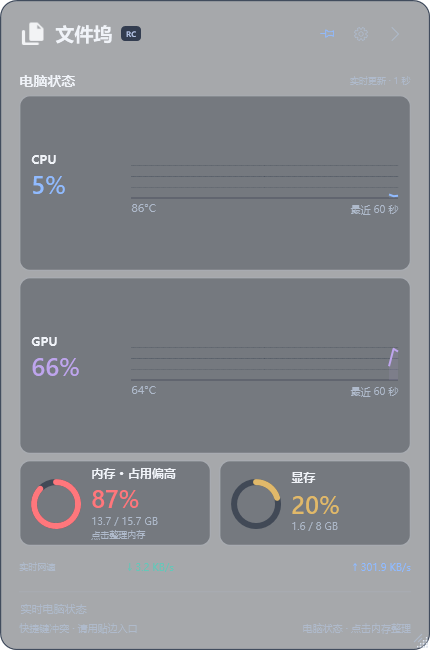
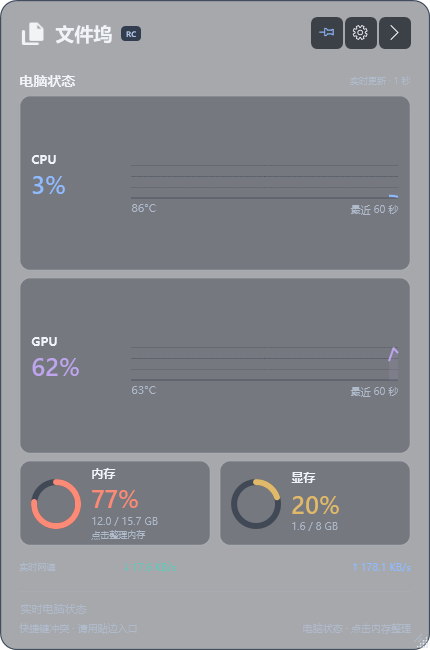
Improve header button contrast over bright backgrounds

diff --git a/源码/MainWindow.xaml b/源码/MainWindow.xaml
@@ -63,6 +63,11 @@
             <Setter Property="FontFamily" Value="Segoe MDL2 Assets" />
             <Setter Property="FontSize" Value="14" />
         </Style>
+        <Style TargetType="Button" x:Key="HeaderIconButton" BasedOn="{StaticResource IconButton}">
+            <Setter Property="Background" Value="{DynamicResource HeaderButtonSurface}" />
+            <Setter Property="Foreground" Value="{DynamicResource Ink}" />
+            <Setter Property="FontSize" Value="15" />
+        </Style>
         <Style TargetType="TextBlock" x:Key="SectionHeading">
             <Setter Property="FontSize" Value="14" />
             <Setter Property="FontWeight" Value="SemiBold" />
@@ -124,11 +129,11 @@
                     </Border>
                 </StackPanel>
                 <StackPanel Grid.Column="1" Orientation="Horizontal" VerticalAlignment="Center">
-                    <Button x:Name="KeepOpenButton" Style="{StaticResource IconButton}" Content="&#xE718;"
+                    <Button x:Name="KeepOpenButton" Style="{StaticResource HeaderIconButton}" Content="&#xE718;"
                             ToolTip="保持展开" AutomationProperties.Name="保持展开" />
-                    <Button x:Name="SettingsButton" Style="{StaticResource IconButton}" Content="&#xE713;"
+                    <Button x:Name="SettingsButton" Style="{StaticResource HeaderIconButton}" Content="&#xE713;"
                             ToolTip="设置" AutomationProperties.Name="设置" Margin="2,0" />
-                    <Button x:Name="CollapseButton" Style="{StaticResource IconButton}" Content="&#xE76C;"
+                    <Button x:Name="CollapseButton" Style="{StaticResource HeaderIconButton}" Content="&#xE76C;"
                             ToolTip="收起到屏幕边缘" AutomationProperties.Name="收起" />
                 </StackPanel>
             </Grid></Border>

diff --git a/源码/ThemeVerification.cs b/源码/ThemeVerification.cs
@@ -15,6 +15,31 @@ namespace FileDockDemo;
 
 internal static class ThemeVerification
 {
+    private static void VerifyHeaderContrast(MainWindow window,string root,Action<bool,string> check)
+    {
+        string mode=window.State.ThemeMode;int transparency=window.State.EmptyAreaTransparency;
+        static Color Blend(Color top,Color bottom){double a=top.A/255d;return Color.FromRgb((byte)Math.Round(top.R*a+bottom.R*(1-a)),(byte)Math.Round(top.G*a+bottom.G*(1-a)),(byte)Math.Round(top.B*a+bottom.B*(1-a)));}
+        static double Contrast(Color a,Color b){static double L(Color c){static double C(byte v){double x=v/255d;return x<=.04045?x/12.92:Math.Pow((x+.055)/1.055,2.4);}return .2126*C(c.R)+.7152*C(c.G)+.0722*C(c.B);}double x=L(a),y=L(b);return(Math.Max(x,y)+.05)/(Math.Min(x,y)+.05);}
+        try
+        {
+            foreach(string theme in new[]{"Dark","Light"})
+            {
+                window.SetThemeMode(theme);window.SetEmptyAreaTransparency(85,false);window.UpdateLayout();
+                foreach(var backdrop in new[]{(Name:"white",Color:Colors.White),(Name:"black",Color:Colors.Black)})
+                {
+                    var shell=Blend(((SolidColorBrush)window.PanelSurface.Background).Color,backdrop.Color);
+                    var buttons=new[]{window.KeepOpenButton,window.SettingsButton,window.CollapseButton};
+                    check(buttons.All(button=>{var plate=(Border)button.Template.FindName("ButtonBorder",button);var fill=Blend(((SolidColorBrush)plate.Background).Color,shell);return Contrast(((SolidColorBrush)button.Foreground).Color,fill)>=3 && Contrast(ThemePalette.Brush("Accent").Color,fill)>=3;}),
+                        $"Header icons and active pin retain 3:1 non-text contrast over {backdrop.Name} in {theme} at maximum shell transparency");
+                    var header=new RenderTargetBitmap((int)window.ActualWidth,64,96,96,PixelFormats.Pbgra32);header.Render(window);
+                    var visual=new DrawingVisual();using(var drawing=visual.RenderOpen()){drawing.DrawRectangle(new SolidColorBrush(backdrop.Color),null,new Rect(0,0,header.PixelWidth,64));drawing.DrawImage(header,new Rect(0,0,header.PixelWidth,64));}
+                    var preview=new RenderTargetBitmap(header.PixelWidth,64,96,96,PixelFormats.Pbgra32);preview.Render(visual);
+                    var encoder=new PngBitmapEncoder();encoder.Frames.Add(BitmapFrame.Create(preview));using var file=File.Create(Path.Combine(root,$"header-{theme}-{backdrop.Name}.png"));encoder.Save(file);
+                }
+            }
+        }
+        finally{window.SetEmptyAreaTransparency(transparency,false);window.SetThemeMode(mode);}
+    }
     [DllImport("user32.dll")] private static extern bool PostMessage(IntPtr hwnd, uint message, IntPtr wParam, IntPtr lParam);
     internal static async Task Run(MainWindow window, string root, Action<bool,string> check)
     {
@@ -25,6 +50,7 @@ internal static class ThemeVerification
         {
             check(JsonSerializer.Deserialize<AppState>("{\"Pins\":[]}")!.ThemeMode == "System" && ThemePalette.Normalize("unknown") == "System", "Old and unknown theme settings safely default to system without losing pins");
             TransparencyVerification.Run(window,root,check);
+            VerifyHeaderContrast(window,root,check);
             window.GoHome(); window.ExpandPanel(); window.SetThemeMode("System");
             check(!window.IsDarkTheme && ((SolidColorBrush)window.PanelSurface.Background).Color == Color.FromArgb(window.BlankAlpha,250,251,253), "System light application theme applies to the panel");
             window.CpuCard.Set(17, "theme validation", 60, true); int history = window.CpuCard.HistoryCount;
@@ -56,7 +82,7 @@ internal static class ThemeVerification
             window.SettingsButton.Focus();
             await Dispatcher.Yield(DispatcherPriority.ApplicationIdle);
             var focusBorder = (Border)window.SettingsButton.Template.FindName("ButtonBorder",window.SettingsButton);
-            check(window.SettingsButton.IsKeyboardFocused && focusBorder.Background is SolidColorBrush { Color.A: 0 }, "Focus alone leaves the settings button background transparent after a menu closes");
+            check(window.SettingsButton.IsKeyboardFocused && focusBorder.Background==ThemePalette.Brush("HeaderButtonSurface"), "Focus alone preserves the normal settings button surface after a menu closes");
             check(window.SettingsButton.FocusVisualStyle != null && window.KeepOpenButton.FocusVisualStyle == window.SettingsButton.FocusVisualStyle,
                 "Header buttons share a keyboard-navigation focus visual without changing their background");
             DemoVerification.SaveRender(window, Path.Combine(root,"theme-home-dark.png"));

diff --git a/源码/MainWindow.xaml.cs b/源码/MainWindow.xaml.cs
@@ -544,7 +544,7 @@ public partial class MainWindow : Window
         DiagnosticLog.Write("display-settings-changed");
         Dispatcher.BeginInvoke(() => { PositionPanel(); PositionDock(); UpdateTrayIcon(); QueueDesktopPresence(); RecordDiagnosticState("display-state"); });
     }
-    private void UpdateKeepOpen() { KeepOpenButton.ToolTip = _keepOpen ? "已保持展开，点击取消" : "保持展开"; KeepOpenButton.SetResourceReference(Control.ForegroundProperty, _keepOpen ? "Accent" : "Muted"); }
+    private void UpdateKeepOpen() { KeepOpenButton.ToolTip = _keepOpen ? "已保持展开，点击取消" : "保持展开"; KeepOpenButton.SetResourceReference(Control.ForegroundProperty, _keepOpen ? "Accent" : "Ink"); }
     internal void SetStatus(string text, bool error = false) { if (_saveFailed && !error) return; StatusText.Text = text; StatusText.SetResourceReference(TextBlock.ForegroundProperty, error ? "Error" : "Muted"); StatusText.ToolTip = text; }
     internal bool Persist() { try { Storage.Save(State); _saveFailed = false; return true; } catch (Exception ex) { _saveFailed = true; SetStatus("配置保存失败：" + ex.Message, true); return false; } }
     public void Quit() { RecordDiagnosticState("user-exit-request"); _quitting = true; Persist(); Application.Current.Shutdown(); }

diff --git a/源码/ThemePalette.cs b/源码/ThemePalette.cs
@@ -20,6 +20,7 @@ internal static class ThemePalette
         // The rail is a separate transparent window, without the shell underlay.
         ("TabSurface", "#B3F0F3F8", "#B32A313C"),
         ("TabSelected", "#CCFAFBFD", "#CC20252D"), ("TabHover", "#CCE8EFFC", "#CC354358"),
+        ("HeaderButtonSurface", "#CCFAFBFD", "#CC20252D"),
         ("Surface", "#FAFBFD", "#20252D"), ("Card", "#F0F3F8", "#2A313C"),
         ("Input", "#F0F3F8", "#2A313C"), ("Border", "#D6DFEB", "#414C5D"),
         ("Ink", "#253247", "#F0F3F8"), ("Muted", "#56657B", "#AFBACB"),

diff --git a/README.md b/README.md
@@ -129,6 +129,8 @@ sc.exe delete FileDockTemperature
 
 ## 本候选版变化
 
+- 顶部固定、设置和收起按钮增加独立半透明底色与高对比图标，提高白色或明亮背景下的辨识度；标题栏保持通透，图钉选中状态和键盘焦点继续独立显示。
+
 - 统一深浅主题、字号和圆角层级。文件页常用入口改为单列轻列表，完整行展示名称与路径；文件夹采用统一轮廓图标，多选后底部提供复制按钮。保留虚拟化、搜索、排序、图片预览和拖放。
 - 性能页采用 CPU/GPU 横向趋势区与并排内存圆环，最小窗口仍可查看容量和网速；待办页统一清单排版与底部添加入口，编辑表单保留紧凑布局。
 
